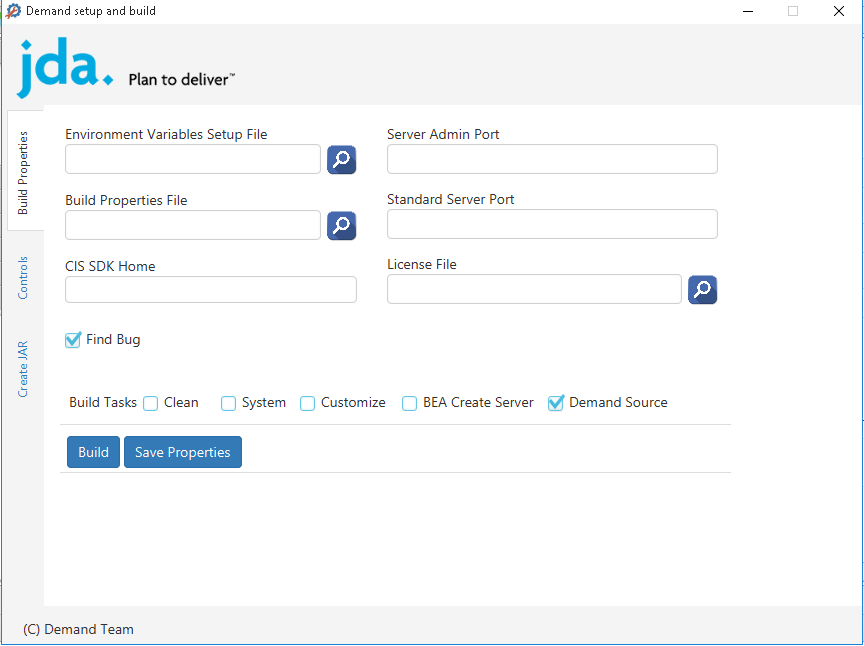
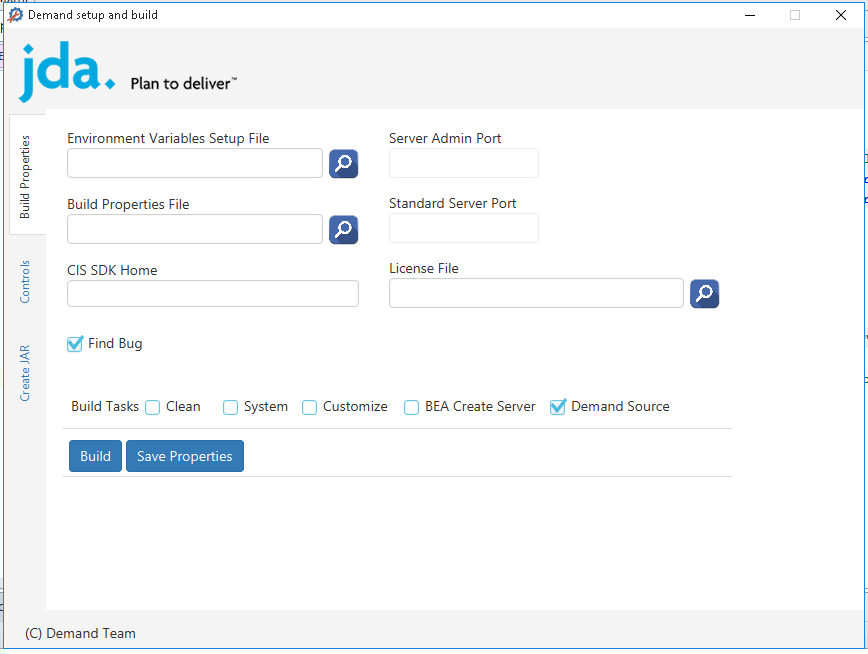
Controls Tab added;

diff --git a/src/com/jda/custom/component/ToggleSwitch.java b/src/com/jda/custom/component/ToggleSwitch.java
@@ -1,0 +1,63 @@
+package com.jda.custom.component;
+
+import javafx.animation.FillTransition;
+import javafx.animation.ParallelTransition;
+import javafx.animation.TranslateTransition;
+import javafx.beans.property.BooleanProperty;
+import javafx.beans.property.SimpleBooleanProperty;
+import javafx.scene.Parent;
+import javafx.scene.effect.DropShadow;
+import javafx.scene.paint.Color;
+import javafx.scene.shape.Circle;
+import javafx.scene.shape.Rectangle;
+import javafx.util.Duration;
+
+public class ToggleSwitch extends Parent {
+
+    private BooleanProperty switchedOn = new SimpleBooleanProperty(false);
+
+    private TranslateTransition translateAnimation = new TranslateTransition(Duration.seconds(0.25));
+    private FillTransition fillAnimation = new FillTransition(Duration.seconds(0.25));
+
+    private ParallelTransition animation = new ParallelTransition(translateAnimation, fillAnimation);
+
+    public BooleanProperty switchedOnProperty() {
+        return switchedOn;
+    }
+
+    public ToggleSwitch() {
+        Rectangle background = new Rectangle(80, 30);
+        background.setArcWidth(25);
+        background.setArcHeight(25);
+        background.setFill(Color.WHITE);
+        background.setStroke(Color.LIGHTGRAY);
+
+        Circle trigger = new Circle(15);
+        trigger.setCenterX(15);
+        trigger.setCenterY(15);
+        trigger.setFill(Color.WHITE);
+        trigger.setStroke(Color.LIGHTGRAY);
+
+        DropShadow shadow = new DropShadow();
+        shadow.setRadius(2);
+        trigger.setEffect(shadow);
+
+        translateAnimation.setNode(trigger);
+        fillAnimation.setShape(background);
+
+        getChildren().addAll(background, trigger);
+
+        switchedOn.addListener((obs, oldState, newState) -> {
+            boolean isOn = newState.booleanValue();
+            translateAnimation.setToX(isOn ? 80 - 30 : 0);
+            fillAnimation.setFromValue(isOn ? Color.WHITE : Color.LIGHTGREEN);
+            fillAnimation.setToValue(isOn ? Color.LIGHTGREEN : Color.WHITE);
+
+            animation.play();
+        });
+
+        setOnMouseClicked(event -> {
+            switchedOn.set(!switchedOn.get());
+        });
+    }
+}

diff --git a/README.md b/README.md
@@ -1,5 +1,7 @@
 # Demand Code Build 
 
-<img src="screenshots/buildprops.png"/>
+- <img src="screenshots/buildprops.png"/>
 
-<img src="screenshots/createjar.png"/>
+- <img src="screenshots/controls.png"/>
+
+- <img src="screenshots/createjar.png"/>
